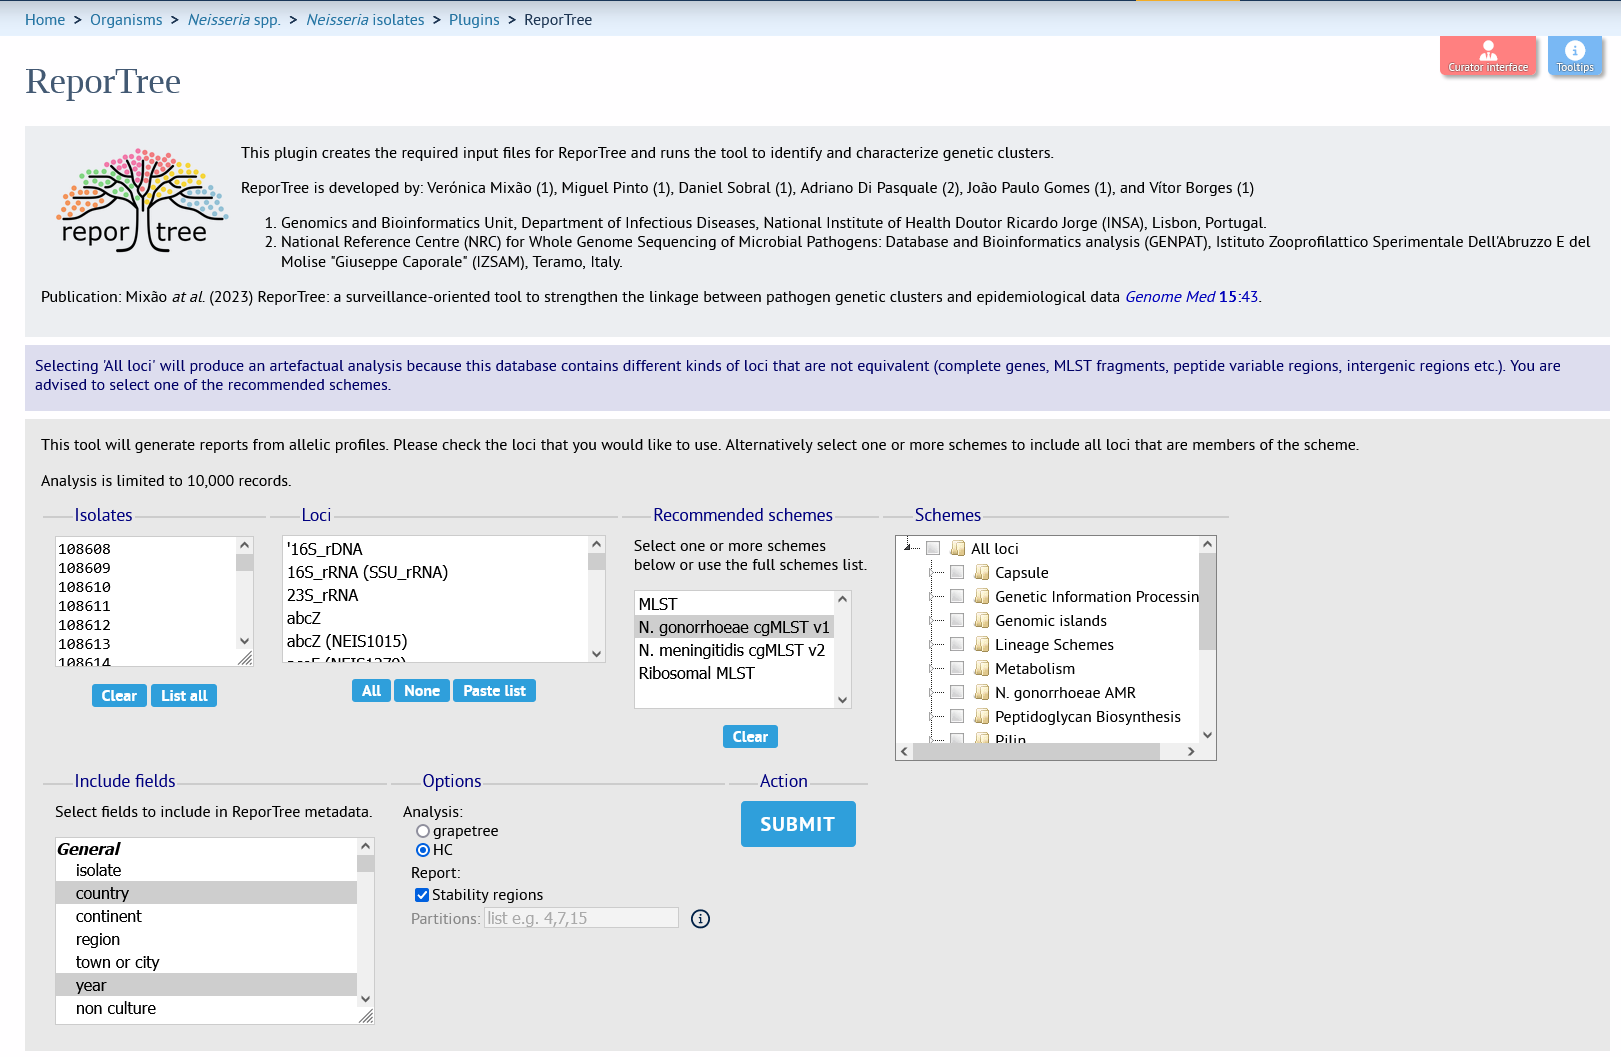
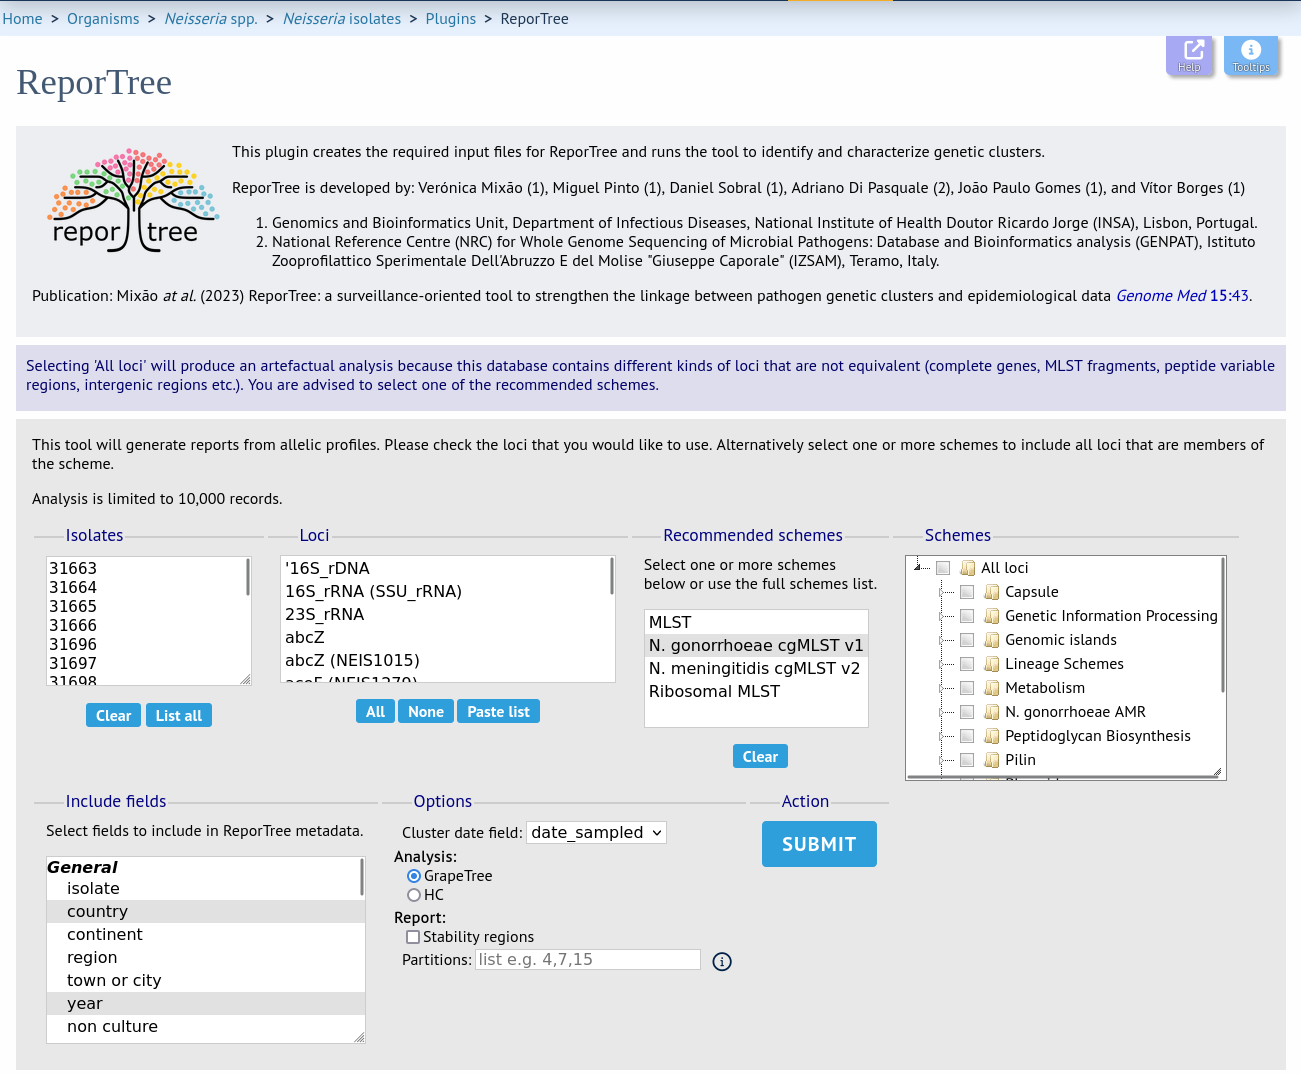
Include new date field in ReporTree documentation.

diff --git a/data_analysis/reportree.rst b/data_analysis/reportree.rst
@@ -32,15 +32,21 @@ select a scheme in the scheme selector, or choose from recommended schemes if
 these have been set, to include all loci belonging to that scheme.
 
 Additional fields can be selected to be included as metadata for use in 
-colouring nodes - select any fields you wish to include. 
-Multiple selections can be made by holding down shift or ctrl while selecting. 
-Click 'Submit' to start the analysis.
+colouring nodes and for inclusion in the partition summary - select any fields 
+you wish to include. Multiple selections can be made by holding down shift or 
+ctrl while selecting. 
+
+You can also select any date field which will be used in cluster definitions to
+indicate the first and last dates of the cluster as well as its total duration.
+This should ideally represent the date of sampling.
 
 Finally, you can choose to use GrapeTree and HC methods for clustering and a
 comma-separated list of partitions defined by locus differences, e.g. '4,7,15'.
 Alternatively, you can choose to calculate and display 'stability regions' 
 which will include the first partition of each stability region (threshold 
 ranges in which cluster composition is similar).
+
+Click 'Submit' to start the analysis.
 
 .. image:: /images/data_analysis/reportree3.png
 
